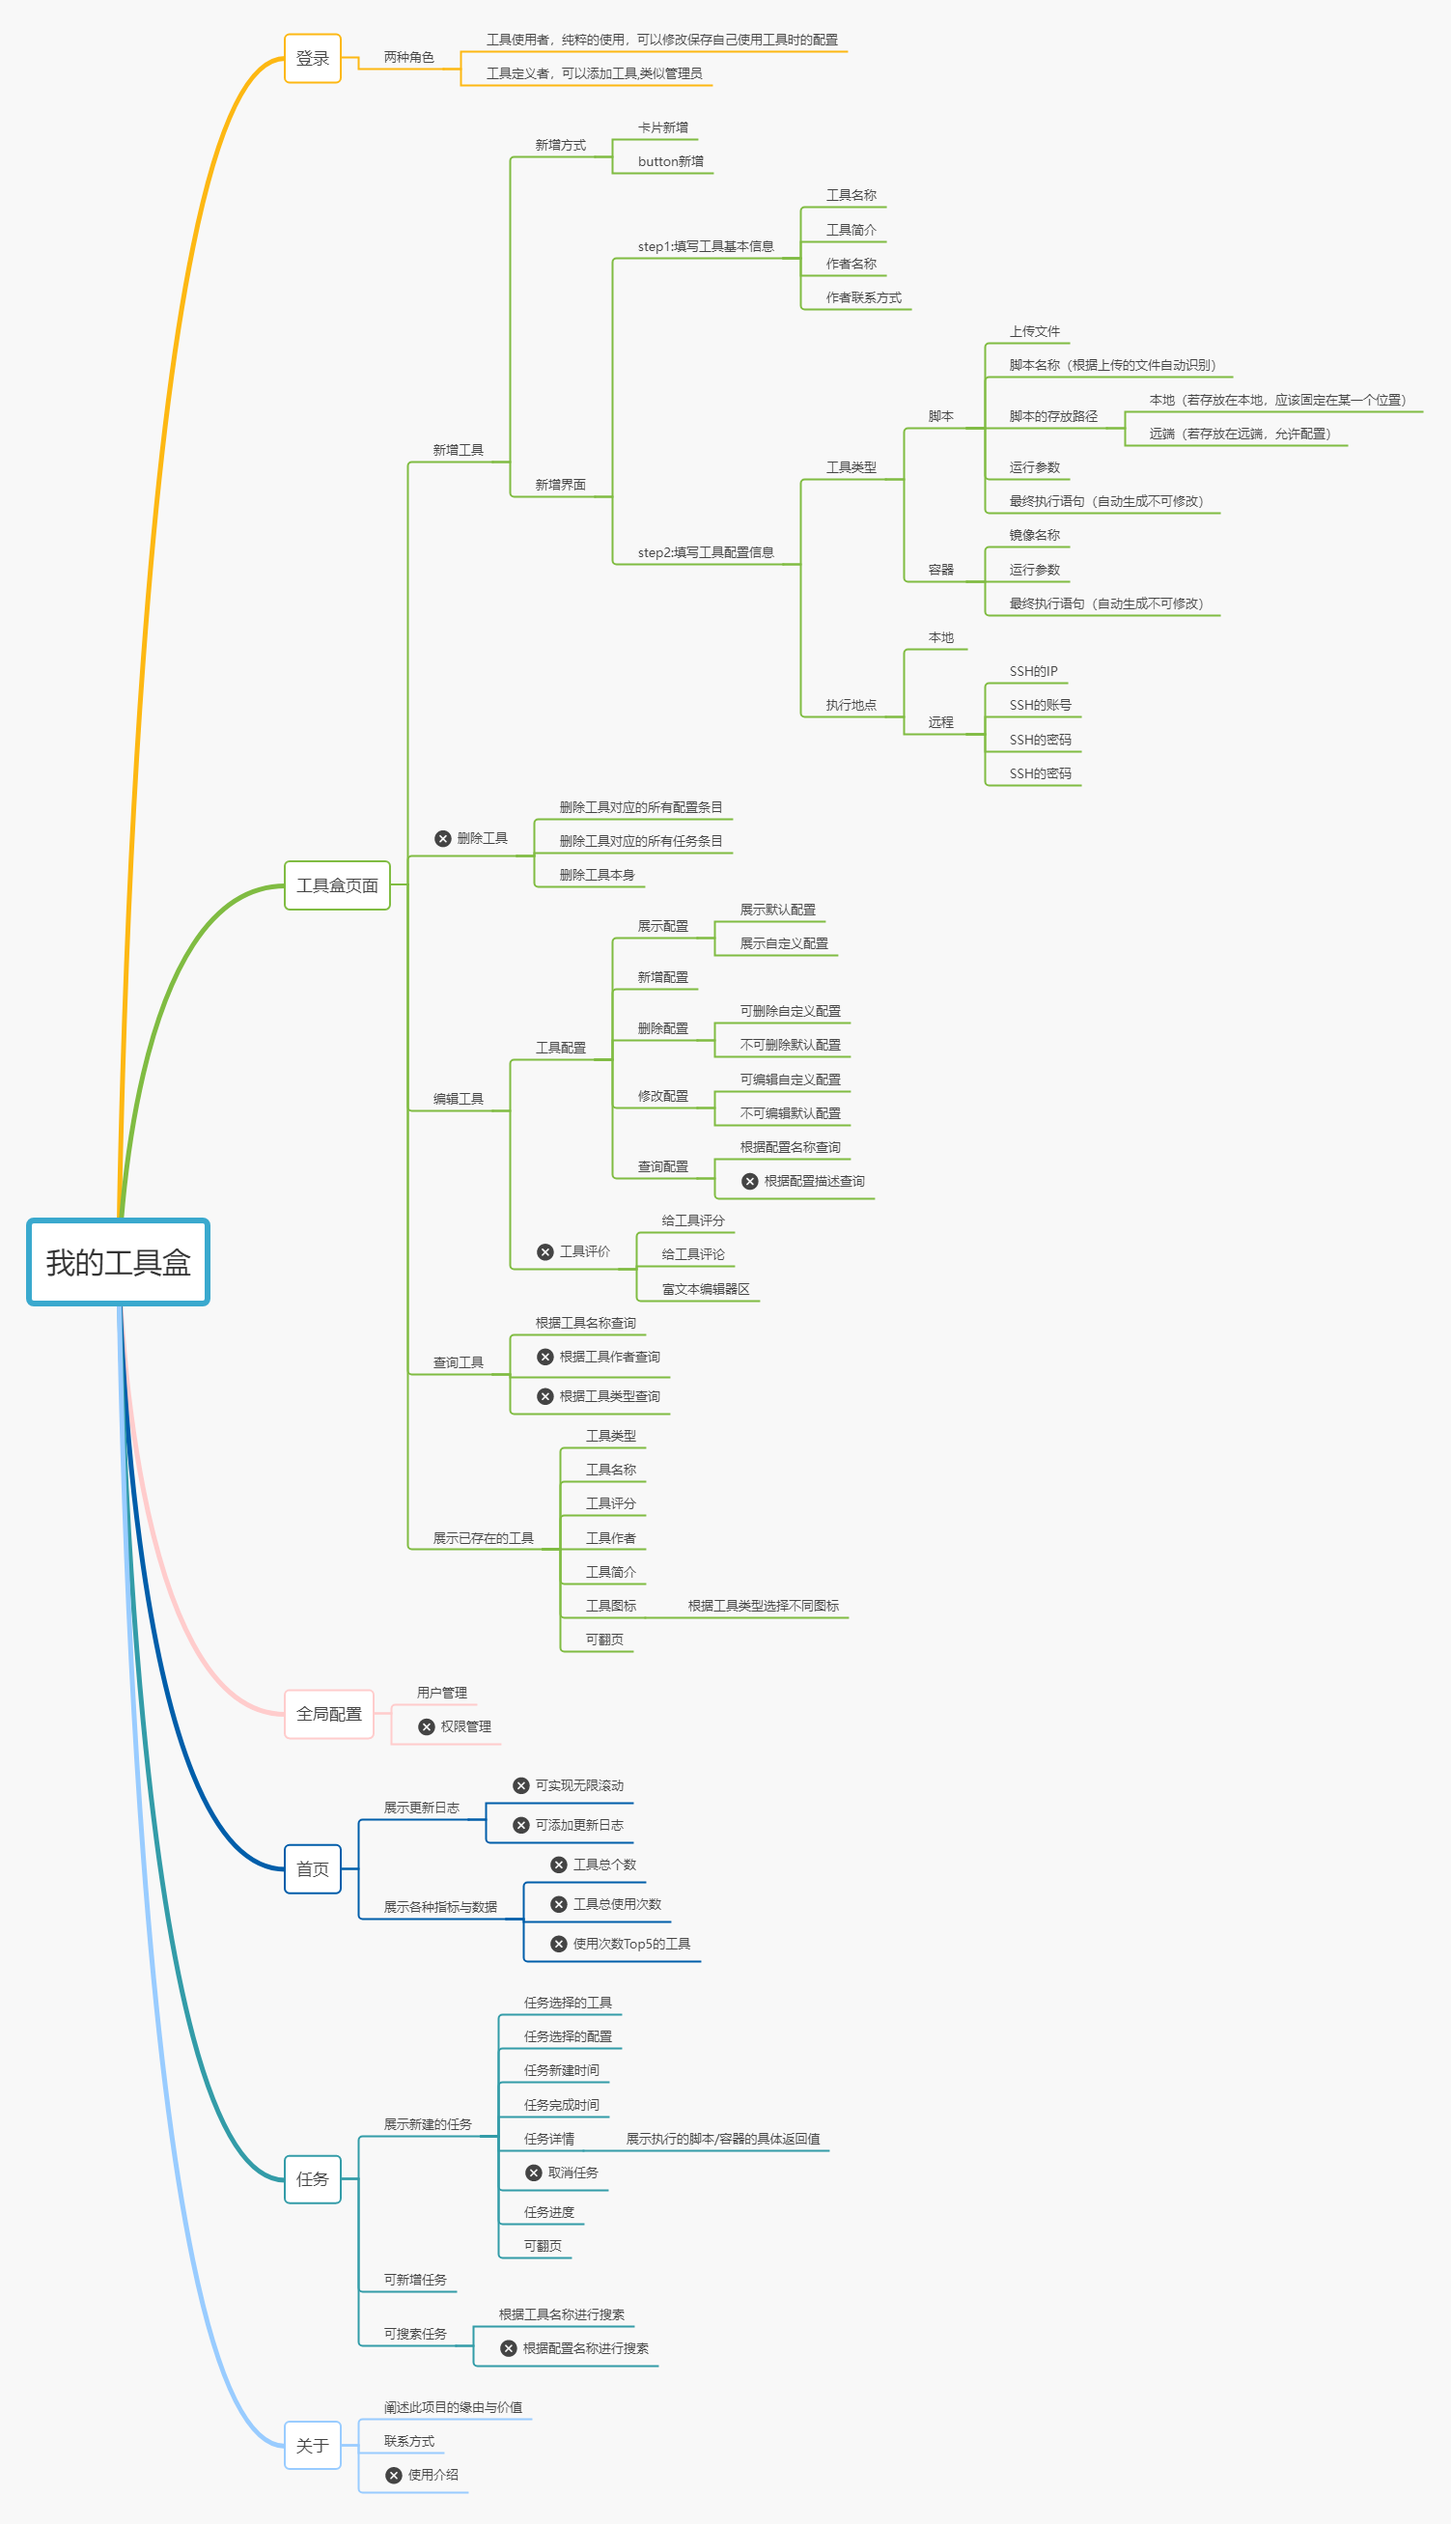
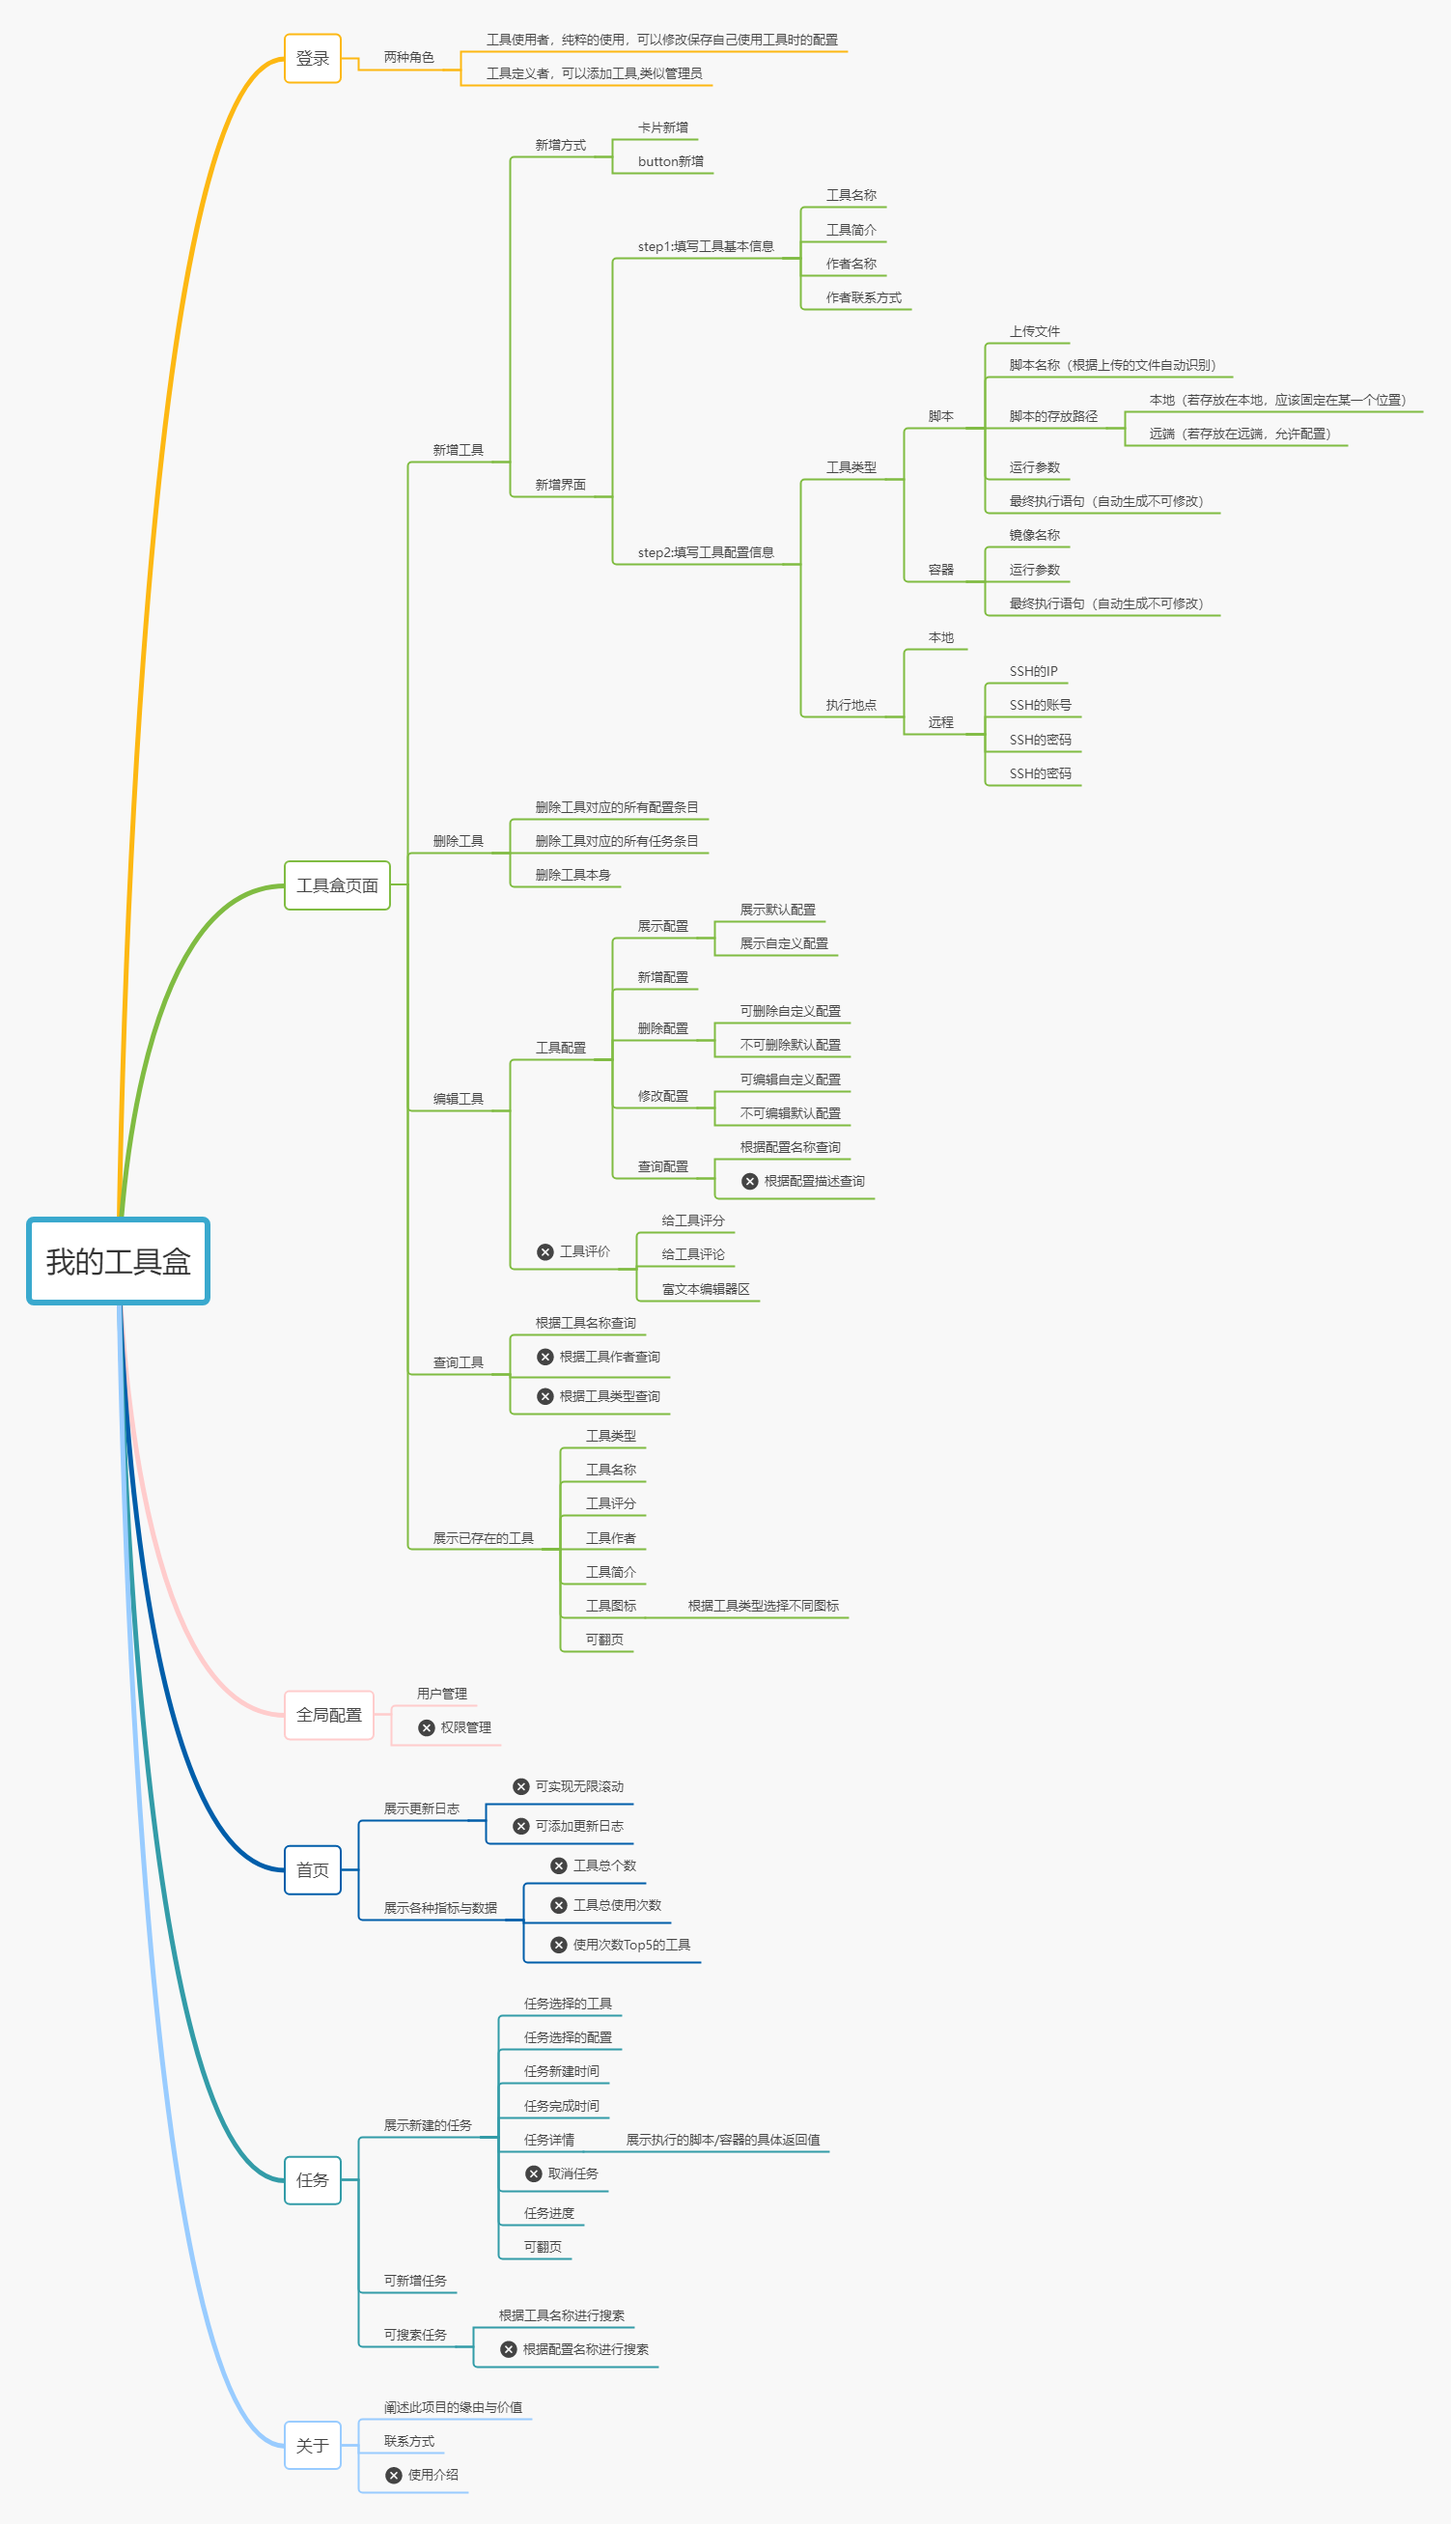
update log

diff --git a/ytoolsbox-vue/src/components/UpdateLog.vue b/ytoolsbox-vue/src/components/UpdateLog.vue
@@ -26,6 +26,10 @@
             <br />
             2. 现在已完成的任务可以被清空了
             <br />
+            3. 现在可以清空所有工具了
+            <br />
+            4. 为任务界面添加了异步的定时请求,现在任务执行情况可以实时更新了
+            <br />
           </p>
         </el-card>
       </el-timeline-item>
